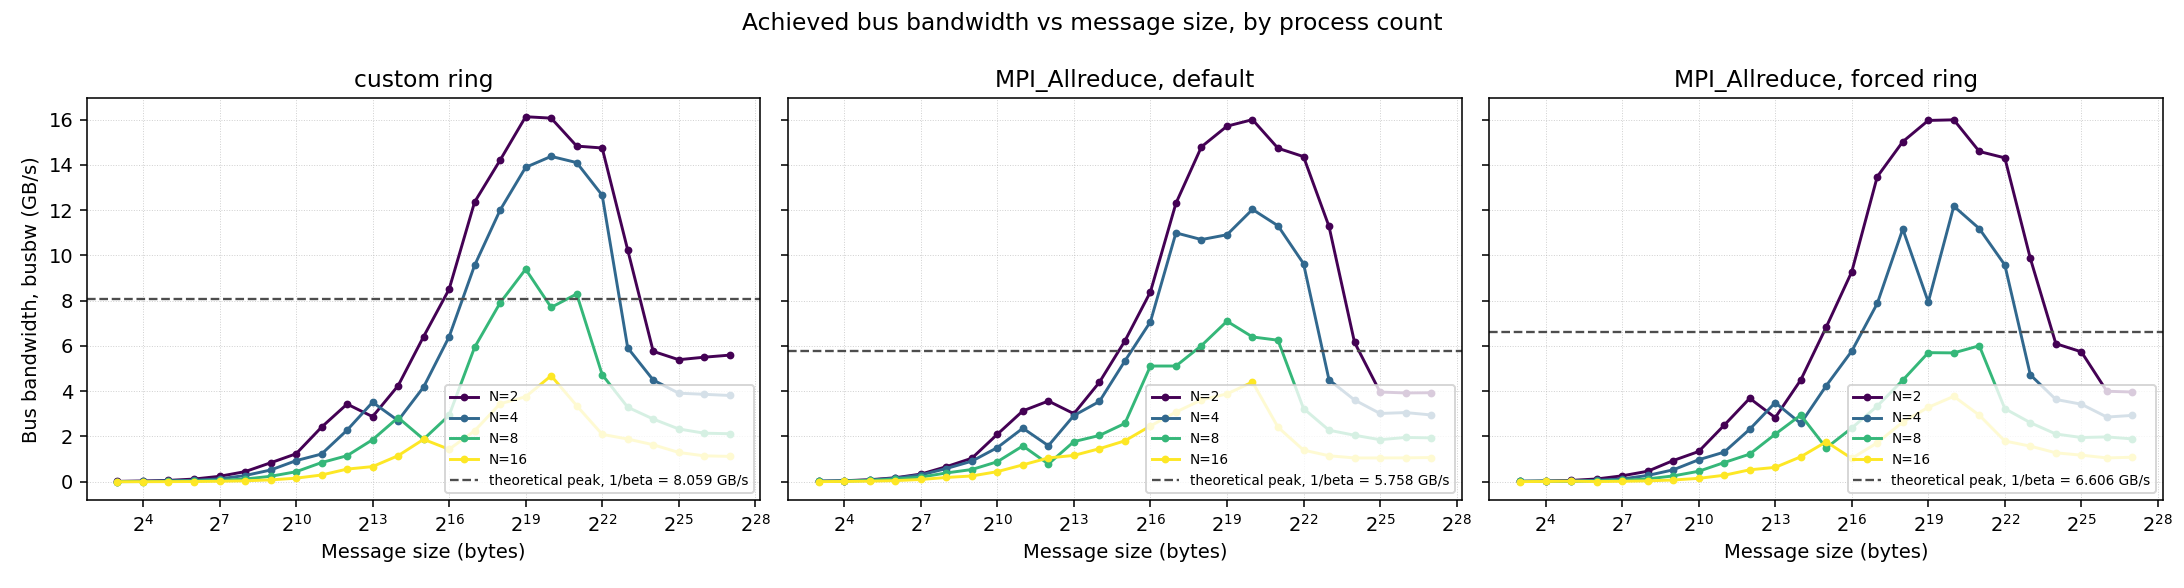
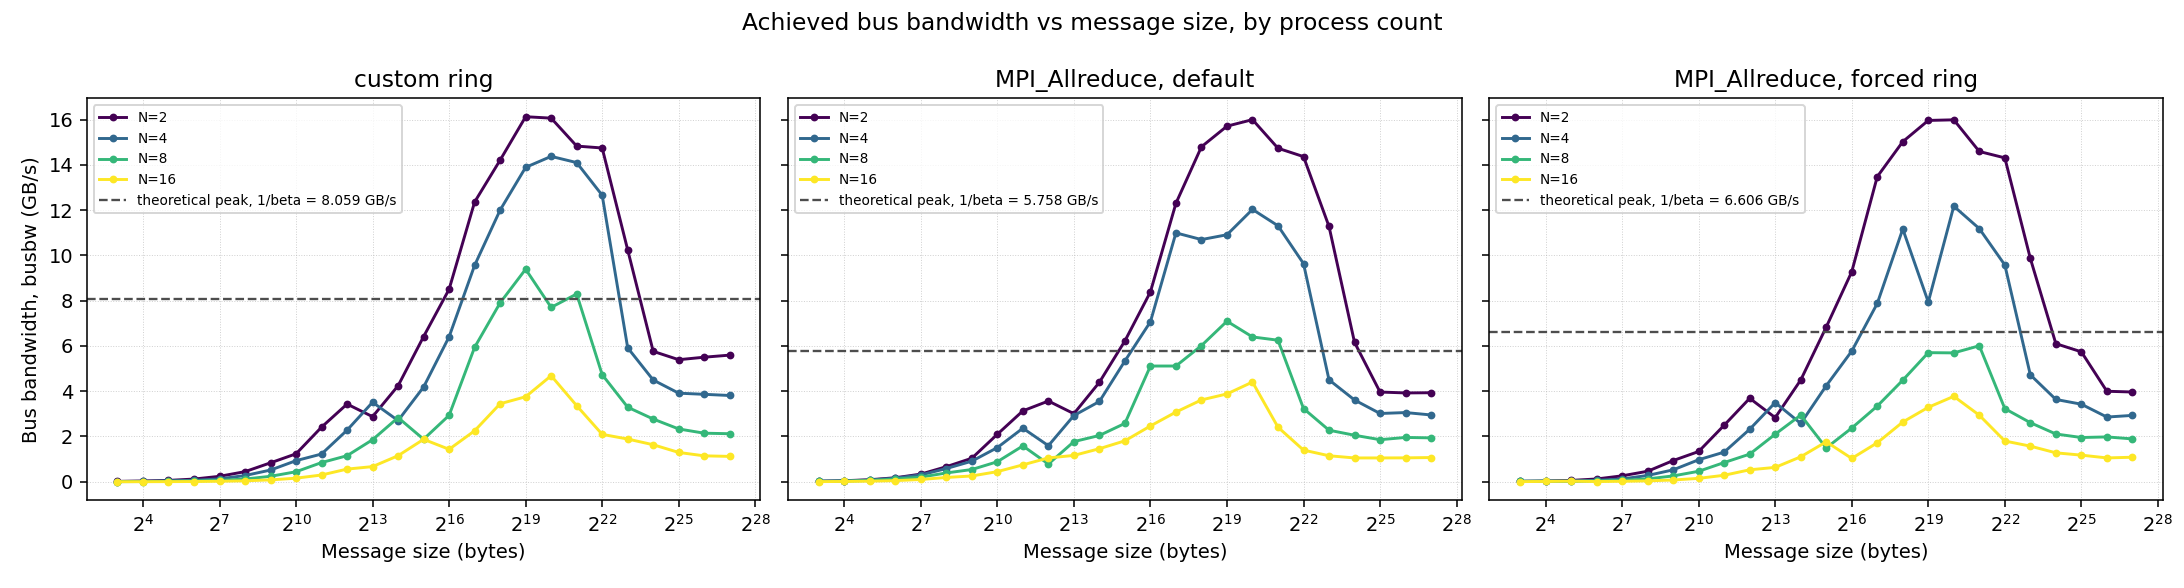
fix: move busbw legend to upper left so it stops covering the curves
The legend sat in the lower right, directly on top of the large-N curve
tails (N=8 and N=16), making them unreadable. The small-message end of every
curve starts near zero, so the upper left corner is empty and the legend fits
there without occluding any data.

Affects both report/figures/busbw_vs_size.pdf and the README preview image,
which are produced by the same function.

diff --git a/analysis/generate_plots.py b/analysis/generate_plots.py
@@ -81,7 +81,10 @@ def plot_busbw_vs_size(df, fits, out_path, n_subset=(2, 4, 8, 16)):
         ax.set_xlabel("Message size (bytes)")
         ax.set_title(ALGO_LABELS.get(algo, algo))
         ax.grid(True, which="both", linestyle=":", linewidth=0.5, alpha=0.6)
-        ax.legend(fontsize=7, loc="lower right")
+        # Upper left: the curves all start near zero at the small-message end,
+        # so that corner is empty. Lower right sits on top of the large-N
+        # curve tails and hides them.
+        ax.legend(fontsize=7, loc="upper left")
 
     axes[0].set_ylabel("Bus bandwidth, busbw (GB/s)")
     fig.suptitle("Achieved bus bandwidth vs message size, by process count")